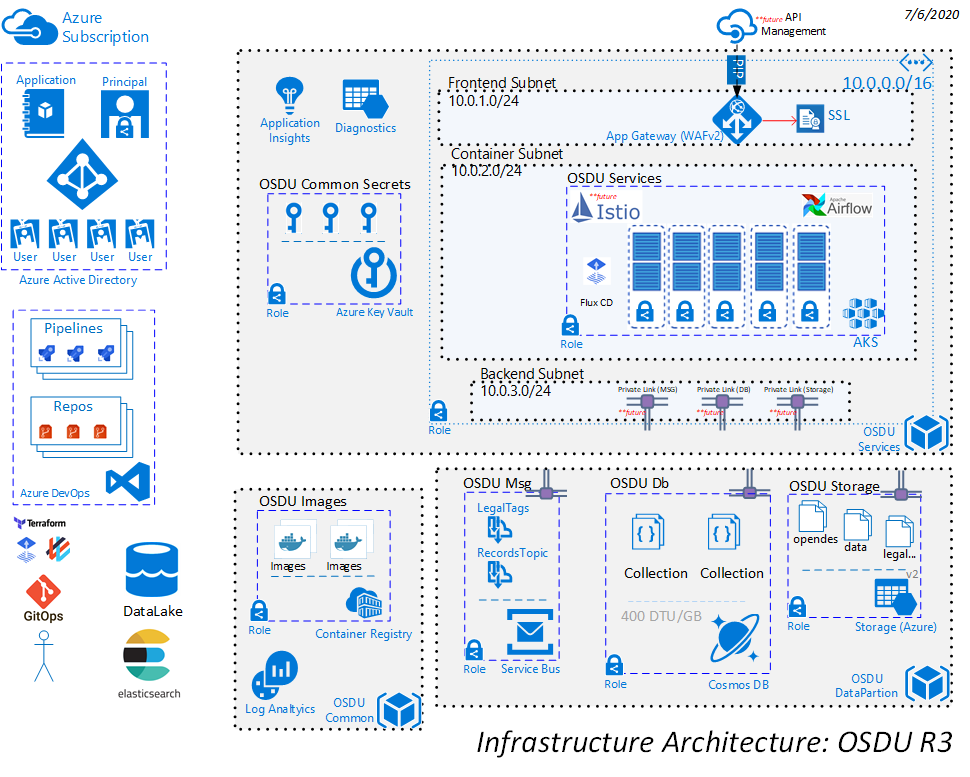
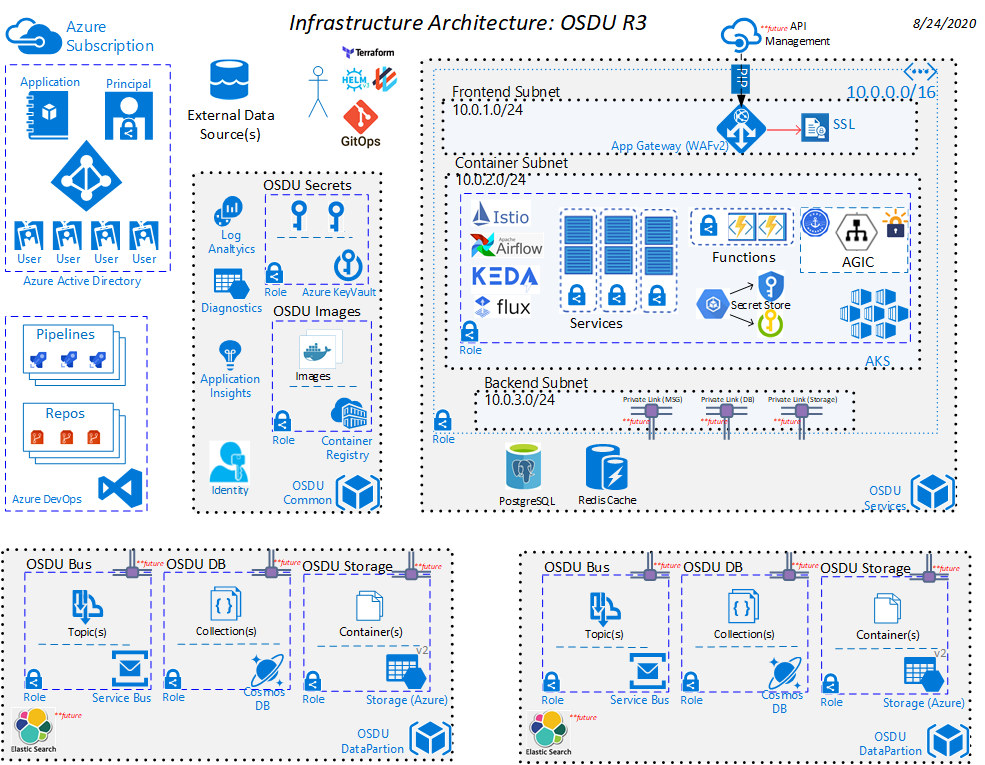
Move key vault (#113)
* add additional kv and edit ammount of created resources in tests

* Added Unit Tests

* Updated Architecture Picture

* Fixed Pipeline Paths

Changed region(s): [[0.0, 0.0, 0.9897, 1.0]]

diff --git a/infra/templates/osdu-r3-resources/configurations/common_resources/tests/unit/keyvault.go b/infra/templates/osdu-r3-resources/configurations/common_resources/tests/unit/keyvault.go
@@ -1,0 +1,81 @@
+//  Copyright © Microsoft Corporation
+//
+//  Licensed under the Apache License, Version 2.0 (the "License");
+//  you may not use this file except in compliance with the License.
+//  You may obtain a copy of the License at
+//
+//       http://www.apache.org/licenses/LICENSE-2.0
+//
+//  Unless required by applicable law or agreed to in writing, software
+//  distributed under the License is distributed on an "AS IS" BASIS,
+//  WITHOUT WARRANTIES OR CONDITIONS OF ANY KIND, either express or implied.
+//  See the License for the specific language governing permissions and
+//  limitations under the License.
+
+package test
+
+import (
+	"fmt"
+	"sort"
+	"testing"
+
+	"github.com/microsoft/cobalt/test-harness/infratests"
+)
+
+func appendKeyVaultTests(t *testing.T, description infratests.ResourceDescription) {
+	kvBasicExpectations(t, description)
+	kvAccessPolicyExpectations(t, description)
+	kvSecretExpectations(t, description)
+}
+
+func kvBasicExpectations(t *testing.T, description infratests.ResourceDescription) {
+	k1 := "module.keyvault.azurerm_key_vault.keyvault"
+	e1 := asMap(t, `{
+	   "sku_name":    "standard"
+	}`)
+	description[k1] = e1
+}
+
+func kvSecretExpectations(t *testing.T, description infratests.ResourceDescription) {
+	expectedKeys := []string{
+		"appinsights-key",
+		"cosmos-endpoint",
+		"cosmos-primary-key",
+		"cosmos-connection",
+		"storage-account-key",
+	}
+
+	// The unit test fixture will expect these secrets to match ordinals returned by terraform, which sorts by name
+	sort.Strings(expectedKeys)
+	for index, value := range expectedKeys {
+		key := fmt.Sprintf("module.keyvault_secrets.azurerm_key_vault_secret.secret[%v]", index)
+		val := asMap(t, fmt.Sprintf(`{"name": "%s"}`, value))
+		description[key] = val
+	}
+}
+
+func kvAccessPolicyExpectations(t *testing.T, description infratests.ResourceDescription) {
+	e1 := asMap(t, `{
+	   "certificate_permissions": ["update", "delete", "get", "list"],
+       "secret_permissions": ["set", "delete", "get", "list"],
+       "key_permissions": ["update", "delete", "get", "list"]
+	}`)
+	k1 := "module.app_management_service_principal_keyvault_access_policy.azurerm_key_vault_access_policy.keyvault[0]"
+	description[k1] = e1
+
+	e2 := asMap(t, `{
+       "certificate_permissions": ["create", "delete", "get", "list"],
+       "secret_permissions": ["set", "delete", "get", "list"],
+       "key_permissions": ["create", "delete", "get"]
+    }`)
+	k2 := "module.keyvault.module.deployment_service_principal_keyvault_access_policies.azurerm_key_vault_access_policy.keyvault[0]"
+	description[k2] = e2
+
+	e3 := asMap(t, `{
+       "certificate_permissions": ["get", "list"],
+       "secret_permissions": ["get", "list"],
+       "key_permissions": ["get", "list"]
+    }`)
+	k3 := "module.authn_app_service_keyvault_access_policy.azurerm_key_vault_access_policy.keyvault[0]"
+	description[k3] = e3
+}

diff --git a/infra/templates/osdu-r3-resources/configurations/common_resources/tests/unit/unit_test.go b/infra/templates/osdu-r3-resources/configurations/common_resources/tests/unit/unit_test.go
@@ -49,7 +49,7 @@ func TestTemplate(t *testing.T) {
 		TfOptions:                       tfOptions,
 		Workspace:                       workspace,
 		PlanAssertions:                  nil,
-		ExpectedResourceCount:           6,
+		ExpectedResourceCount:           13,
 		ExpectedResourceAttributeValues: resourceDescription,
 	}
 
